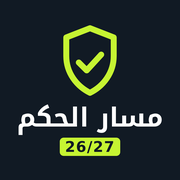
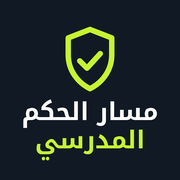
الشعار بالاسم الكامل

Changed region(s): [[0.1944, 0.5556, 0.9167, 0.8889], [0.3333, 0.1389, 0.6667, 0.5278], [0.0833, 0.5556, 0.5, 0.75]]

diff --git a/index.html b/index.html
@@ -220,7 +220,7 @@ body.pending main,body.pending .tabbar{visibility:hidden}body.locked .tabbar,bod
 @media (max-width:640px){.tiles{grid-template-columns:repeat(2,minmax(0,1fr))}}
 .aisoon{border:2px dashed var(--line);text-align:center}.aisoon b{font-size:1.3rem}.aisoon p{margin:6px 0}.aisoon ul{margin:0;text-align:start;display:grid;gap:4px}
 .assync{display:block;margin-top:-4px}.assync[data-state=wait]{color:#c77700}.assync[data-state=miss]{color:var(--red)}.rlist{display:grid;gap:8px;max-height:420px;overflow:auto}.rrow{display:flex;gap:8px;align-items:center;justify-content:space-between;padding:8px 10px;border:1px solid var(--line);border-radius:10px;background:var(--surface)}.rrow>div{display:grid;min-width:0}.rrow b{overflow:hidden;text-overflow:ellipsis;white-space:nowrap}
-.linkbtn{background:none;border:0;padding:0;color:var(--pitch);font:inherit;text-decoration:underline;cursor:pointer;justify-self:start}.pwbox summary{cursor:pointer;font-weight:600}.credbox{display:grid;gap:8px;background:var(--pitch-soft);border-color:var(--lime)}@media (max-width:420px){.rlbadge.mzb .mzx{display:none}}.credmsg{white-space:pre-wrap;margin:0;font:inherit;font-size:.9rem;background:var(--surface);border:1px solid var(--line);border-radius:10px;padding:10px}.ulist{display:grid;gap:8px;margin-top:8px}.usearch{width:100%;padding:8px 10px;border:1px solid var(--line);border-radius:10px;background:var(--surface);color:var(--ink);font:inherit}.urow{display:flex;align-items:center;justify-content:space-between;gap:8px;border-top:1px solid var(--line);padding-top:8px}.urow small{display:block}.delacc summary{color:var(--red)}.delacc .anform{grid-template-columns:1fr}.delacc .anform>*{grid-column:1/-1}.delacc input{min-height:0}.btn.danger{background:var(--red);border-color:var(--red);color:#fff;justify-self:start}.btn.danger:disabled{opacity:.6}.tip.warnred{background:var(--red-soft);border-color:var(--red)}.pwbox .anform{margin-top:8px}
+.linkbtn{background:none;border:0;padding:0;color:var(--pitch);font:inherit;text-decoration:underline;cursor:pointer;justify-self:start}.pwbox summary{cursor:pointer;font-weight:600}.credbox{display:grid;gap:8px;background:var(--pitch-soft);border-color:var(--lime)}@media (max-width:480px){.bar-in{column-gap:6px}.rlbadge.mzb{font-size:.84rem;gap:5px;padding:6px 9px}.rlbadge.mzb svg{width:13px;height:15px}}@media (max-width:350px){.rlbadge.mzb{font-size:.74rem}}.credmsg{white-space:pre-wrap;margin:0;font:inherit;font-size:.9rem;background:var(--surface);border:1px solid var(--line);border-radius:10px;padding:10px}.ulist{display:grid;gap:8px;margin-top:8px}.usearch{width:100%;padding:8px 10px;border:1px solid var(--line);border-radius:10px;background:var(--surface);color:var(--ink);font:inherit}.urow{display:flex;align-items:center;justify-content:space-between;gap:8px;border-top:1px solid var(--line);padding-top:8px}.urow small{display:block}.delacc summary{color:var(--red)}.delacc .anform{grid-template-columns:1fr}.delacc .anform>*{grid-column:1/-1}.delacc input{min-height:0}.btn.danger{background:var(--red);border-color:var(--red);color:#fff;justify-self:start}.btn.danger:disabled{opacity:.6}.tip.warnred{background:var(--red-soft);border-color:var(--red)}.pwbox .anform{margin-top:8px}
 .kitprog{display:grid;gap:6px}.kitgrp{gap:2px}.kitrow{display:flex;align-items:center;gap:10px;padding:8px 2px;border-bottom:1px solid var(--line);cursor:pointer}.kitrow:last-of-type{border-bottom:0}.kitrow input{width:22px;height:22px;accent-color:var(--pitch);flex:none}.kitrow input:checked+span{color:var(--muted);text-decoration:line-through}
 .faceid{margin:0;font-size:.85rem;padding:8px 10px;border-radius:8px;background:var(--surface);border:1px dashed var(--line)}
 .lostbox{display:flex;align-items:center;justify-content:space-between;gap:10px;padding:10px 12px;border:1px solid var(--line);border-radius:12px;background:var(--surface)}.lostbox>div{display:grid;gap:2px;min-width:0}.lostbox.on{border-color:var(--red);box-shadow:0 0 0 2px color-mix(in srgb,var(--red) 25%,transparent)}.lostbox .btn{flex:none}
@@ -296,11 +296,11 @@ body.pending main,body.pending .tabbar{visibility:hidden}body.locked .tabbar,bod
 </style>
 </head>
 <body>
-<div id="splash" class="rlsplash" aria-hidden="true"><div class="rlbrand mz"><svg class="rl-shield" viewBox="0 0 48 56" aria-hidden="true"><path d="M24 3 6 10v14c0 13 8 23 18 28 10-5 18-15 18-28V10L24 3Z" fill="none" stroke="currentColor" stroke-width="4.5" stroke-linejoin="round"/><path d="m15.5 29 6 6 11-12" fill="none" stroke="currentColor" stroke-width="4.5" stroke-linecap="round" stroke-linejoin="round"/></svg><div class="mz-name">مسار الحكم المدرسي</div><div class="mz-year" dir="ltr">2026 – 2027</div><div class="rl-tag" dir="ltr">SCHOOL REFEREE PATHWAY</div><div class="rl-sub" dir="ltr">Learn. Analyze. Officiate.</div></div></div>
+<div id="splash" class="rlsplash" aria-hidden="true"><div class="rlbrand mz"><svg class="rl-shield" viewBox="0 0 48 56" aria-hidden="true"><path d="M24 3 6 10v14c0 13 8 23 18 28 10-5 18-15 18-28V10L24 3Z" fill="none" stroke="currentColor" stroke-width="4.5" stroke-linejoin="round"/><path d="m15.5 29 6 6 11-12" fill="none" stroke="currentColor" stroke-width="4.5" stroke-linecap="round" stroke-linejoin="round"/></svg><div class="mz-name">مسار الحكم المدرسي</div><div class="rl-tag" dir="ltr">SCHOOL REFEREE PATHWAY</div><div class="rl-sub" dir="ltr">Learn. Analyze. Officiate.</div></div></div>
 
 <div class="bar"><div class="bar-in">
   <div class="brand">
-    <span class="rlbadge mzb" aria-label="مسار الحكم المدرسي 2026-2027"><svg viewBox="0 0 48 56" aria-hidden="true"><path d="M24 3 6 10v14c0 13 8 23 18 28 10-5 18-15 18-28V10L24 3Z" fill="none" stroke="currentColor" stroke-width="5" stroke-linejoin="round"/><path d="m15.5 29 6 6 11-12" fill="none" stroke="currentColor" stroke-width="5" stroke-linecap="round" stroke-linejoin="round"/></svg><b>مسار الحكم<span class="mzx"> المدرسي</span></b><i dir="ltr">26/27</i></span>
+    <span class="rlbadge mzb" aria-label="مسار الحكم المدرسي 2026-2027"><svg viewBox="0 0 48 56" aria-hidden="true"><path d="M24 3 6 10v14c0 13 8 23 18 28 10-5 18-15 18-28V10L24 3Z" fill="none" stroke="currentColor" stroke-width="5" stroke-linejoin="round"/><path d="m15.5 29 6 6 11-12" fill="none" stroke="currentColor" stroke-width="5" stroke-linecap="round" stroke-linejoin="round"/></svg><b>مسار الحكم المدرسي</b></span>
   </div>
   <span style="flex:1"></span>
   <button class="lang" id="themeBtn" aria-label="Day or night">🌙</button>
@@ -1737,7 +1737,7 @@ async function sbSession(){if(!SB)return;const {data}=await SB.auth.getSession()
   if(!open)go("account");else if(was||!UI_DONE){UI_DONE=true;applyLang();go("guide")}}
 function refreshOpen(){["clips","lectures","library","account"].forEach(v=>{if(!$("#v-"+v).hidden)({clips:renderClips,lectures:renderLectures,library:renderLibrary,account:renderAccount})[v]()})}
 /* opening screen: shown once per visit while the session and content load */
-window.RL_BRAND="<div class=\"rlbrand mz\"><svg class=\"rl-shield\" viewBox=\"0 0 48 56\" aria-hidden=\"true\"><path d=\"M24 3 6 10v14c0 13 8 23 18 28 10-5 18-15 18-28V10L24 3Z\" fill=\"none\" stroke=\"currentColor\" stroke-width=\"4.5\" stroke-linejoin=\"round\"/><path d=\"m15.5 29 6 6 11-12\" fill=\"none\" stroke=\"currentColor\" stroke-width=\"4.5\" stroke-linecap=\"round\" stroke-linejoin=\"round\"/></svg><div class=\"mz-name\">مسار الحكم المدرسي</div><div class=\"mz-year\" dir=\"ltr\">2026 – 2027</div><div class=\"rl-tag\" dir=\"ltr\">SCHOOL REFEREE PATHWAY</div><div class=\"rl-sub\" dir=\"ltr\">Learn. Analyze. Officiate.</div></div>";
+window.RL_BRAND="<div class=\"rlbrand mz\"><svg class=\"rl-shield\" viewBox=\"0 0 48 56\" aria-hidden=\"true\"><path d=\"M24 3 6 10v14c0 13 8 23 18 28 10-5 18-15 18-28V10L24 3Z\" fill=\"none\" stroke=\"currentColor\" stroke-width=\"4.5\" stroke-linejoin=\"round\"/><path d=\"m15.5 29 6 6 11-12\" fill=\"none\" stroke=\"currentColor\" stroke-width=\"4.5\" stroke-linecap=\"round\" stroke-linejoin=\"round\"/></svg><div class=\"mz-name\">مسار الحكم المدرسي</div><div class=\"rl-tag\" dir=\"ltr\">SCHOOL REFEREE PATHWAY</div><div class=\"rl-sub\" dir=\"ltr\">Learn. Analyze. Officiate.</div></div>";
 (function(){const sp=document.getElementById("splash");if(!sp)return;let seen=false;try{seen=sessionStorage.getItem("rlSplash")==="1";sessionStorage.setItem("rlSplash","1")}catch(e){}
   const t0=Date.now(),done=()=>{sp.classList.add("out");setTimeout(()=>sp.remove(),600)};if(seen){sp.remove();return}
   const tick=()=>{const el=Date.now()-t0;if((el>1200&&!document.body.classList.contains("pending"))||el>4000)done();else setTimeout(tick,150)};setTimeout(tick,150)})();

diff --git a/sw.js b/sw.js
@@ -1,5 +1,5 @@
 // Offline support: the page and its icons are cached; the network is tried first so updates arrive.
-const CACHE = 'qh-v66';
+const CACHE = 'qh-v67';
 const CORE = ['./', './index.html', './supabase-2.45.4.js', './manifest.webmanifest', './icon-192.png', './icon-512.png', './icon-180.png'];
 self.addEventListener('install', e => e.waitUntil(caches.open(CACHE).then(c => c.addAll(CORE)).then(() => self.skipWaiting())));
 self.addEventListener('activate', e => e.waitUntil(
